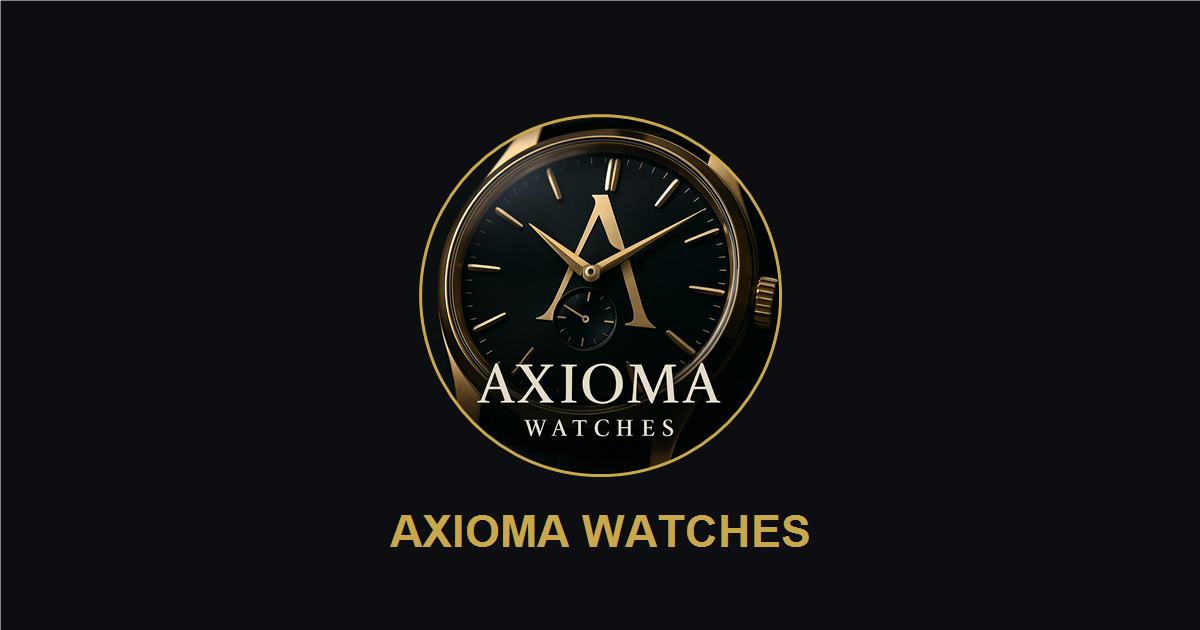
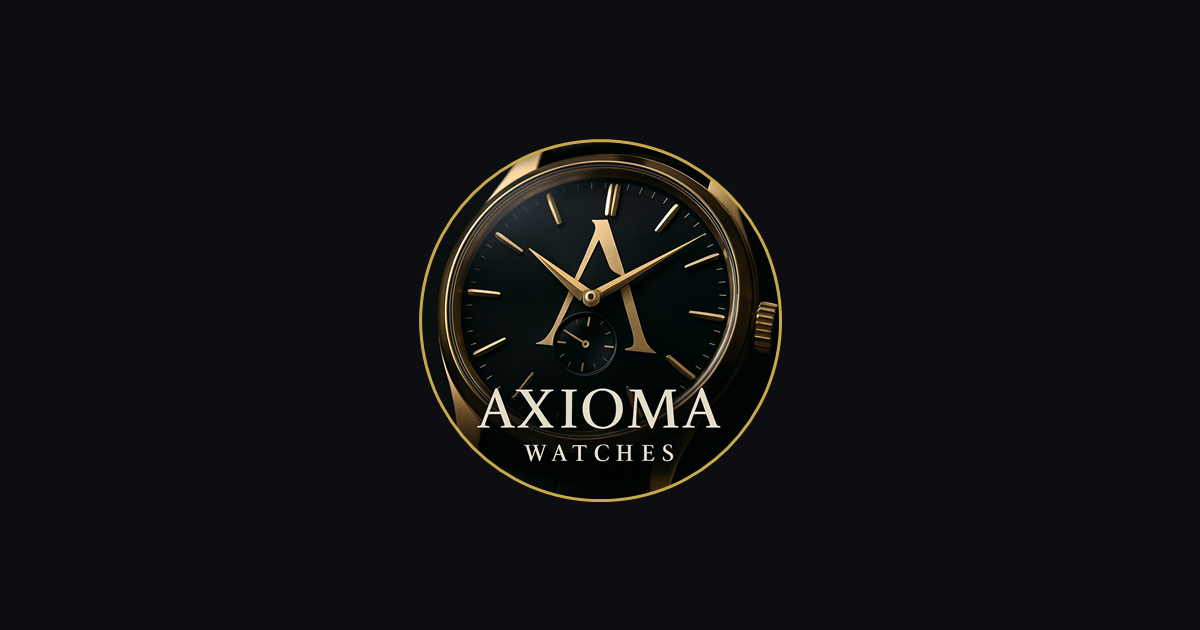
[ADD] SEO, performance e UX no carrossel de recomendações
- Corrige og:image para URL absoluta e adiciona hreflang pt-BR/en (domínios .com.br/.com)
- Substitui imagem de capa (og-cover.png) removendo texto redundante ao logo
- Fotos dos relógios passam a usar lazy loading em vez de carregar todas de uma vez
- Cache de 60s na API da planilha, mantendo edições visíveis em até 1 minuto
- Remove lista de relógios reserva desatualizada; seção mostra mensagem de indisponibilidade caso a planilha falhe
- Troca de filtro por marca com transição suave (fade) em vez de remontar o carrossel, corrigindo o piscar
- Altura da descrição fixa nos cards, mantendo o botão "Ver na loja" na mesma posição entre filtros

Changed region(s): [[0.3083, 0.181, 0.6783, 0.8746]]

diff --git a/src/components/Recommendations.tsx b/src/components/Recommendations.tsx
@@ -106,15 +106,19 @@ function GalleryItem({ w }: { w: Watch }) {
       >
         {imageUrl ? (
           <Box
+            component="img"
             className="watch-img"
-            role="img"
-            aria-label={w.model}
+            src={imageUrl}
+            alt={w.model}
+            loading="lazy"
+            decoding="async"
             sx={{
               position: 'absolute',
               inset: 0,
-              backgroundImage: `url(${imageUrl})`,
-              backgroundSize: 'cover',
-              backgroundPosition: 'center',
+              width: '100%',
+              height: '100%',
+              objectFit: 'cover',
+              objectPosition: 'center',
               backgroundColor: '#f5f4f2',
               transition: 'transform 0.45s ease, filter 0.45s ease',
               transformOrigin: 'center',
@@ -237,8 +241,8 @@ function GalleryItem({ w }: { w: Watch }) {
         >
           {w.model}
         </Typography>
-        {/* Altura fixa (4 linhas) para o botão nunca mudar de posição entre filtros */}
-        <Box sx={{ flex: 1, height: '6rem', overflow: 'hidden' }}>
+        {/* Altura rígida (4 linhas, sem flex) para o botão nunca mudar de posição */}
+        <Box sx={{ height: '6rem', overflow: 'hidden' }}>
           {description && (
             <Typography
               variant="body2"
@@ -359,7 +363,25 @@ export default function Recommendations() {
   const { ref, visible } = useScrollReveal();
   const { t } = useLanguage();
   const { watches, loading } = useRecommendations();
+  // brandFilter destaca o chip na hora; appliedFilter troca a lista depois do
+  // fade-out, para a transição ser suave em vez de piscar.
   const [brandFilter, setBrandFilter] = useState<string | null>(null);
+  const [appliedFilter, setAppliedFilter] = useState<string | null>(null);
+  const [fading, setFading] = useState(false);
+  const fadeTimer = useRef<number | undefined>(undefined);
+
+  const changeFilter = (next: string | null) => {
+    if (next === brandFilter) return;
+    setBrandFilter(next);
+    setFading(true);
+    window.clearTimeout(fadeTimer.current);
+    fadeTimer.current = window.setTimeout(() => {
+      setAppliedFilter(next);
+      setFading(false);
+    }, 120);
+  };
+
+  useEffect(() => () => window.clearTimeout(fadeTimer.current), []);
 
   const brands = useMemo(() => {
     const seen = new Set<string>();
@@ -371,8 +393,8 @@ export default function Recommendations() {
   }, [watches]);
 
   const filtered = useMemo(
-    () => (brandFilter === null ? watches : watches.filter((w) => partnerOf(w) === brandFilter)),
-    [watches, brandFilter]
+    () => (appliedFilter === null ? watches : watches.filter((w) => partnerOf(w) === appliedFilter)),
+    [watches, appliedFilter]
   );
 
   const chipRowRef = useRef<HTMLDivElement>(null);
@@ -473,7 +495,7 @@ export default function Recommendations() {
               label={t.recommendations.filterAll}
               variant="outlined"
               clickable
-              onClick={() => setBrandFilter(null)}
+              onClick={() => changeFilter(null)}
               sx={filterChipSx(brandFilter === null)}
             />
             {brands.map((brand) => (
@@ -482,7 +504,7 @@ export default function Recommendations() {
                 label={brand}
                 variant="outlined"
                 clickable
-                onClick={() => setBrandFilter((prev) => (prev === brand ? null : brand))}
+                onClick={() => changeFilter(brandFilter === brand ? null : brand)}
                 sx={filterChipSx(brandFilter === brand)}
               />
             ))}
@@ -519,7 +541,25 @@ export default function Recommendations() {
           </Box>
         )}
 
-        <Carousel key={brandFilter ?? 'all'} sx={revealSx(visible, 200)}>
+        {!loading && watches.length === 0 && (
+          <Typography
+            sx={{
+              textAlign: 'center',
+              color: 'text.secondary',
+              fontSize: '0.95rem',
+              lineHeight: 1.8,
+              py: 8,
+              px: 4,
+            }}
+          >
+            {t.recommendations.loadError}
+          </Typography>
+        )}
+
+        {(loading || watches.length > 0) && (
+        <Box sx={revealSx(visible, 200)}>
+        <Box sx={{ opacity: fading ? 0 : 1, transition: 'opacity 120ms ease' }}>
+        <Carousel resetToken={appliedFilter}>
           {loading
             ? Array.from({ length: 3 }).map((_, i) => (
                 <Box
@@ -553,6 +593,9 @@ export default function Recommendations() {
               ))
           }
         </Carousel>
+        </Box>
+        </Box>
+        )}
       </Box>
     </Box>
   );

diff --git a/src/hooks/useRecommendations.ts b/src/hooks/useRecommendations.ts
@@ -25,52 +25,14 @@ const GRADIENTS = [
   'linear-gradient(135deg, #1a0a0a 0%, #3d1010 50%, #5a1a1a 100%)',
 ];
 
-const FALLBACK: Watch[] = [
-  {
-    brand: 'Seiko',
-    model: 'Turtle SRP777',
-    description: 'Um ícone do mergulho com movimento automático 4R36, reserva de marcha de 41h e resistência a 200m.',
-    storeUrl: 'https://www.relojoariaimpala.com.br',
-    gradient: GRADIENTS[0],
-  },
-  {
-    brand: 'Citizen',
-    model: 'Promaster Diver NY0040',
-    description: 'Tecnologia Eco-Drive, resistência a 200m e acabamento superlativo. Custo-benefício difícil de superar.',
-    storeUrl: 'https://www.relojoariaimpala.com.br',
-    gradient: GRADIENTS[1],
-  },
-  {
-    brand: 'Spinnaker',
-    model: 'Hull SP-5068-03',
-    description: 'Design náutico britânico com movimento automático NH35. Uma das melhores opções na faixa de entrada premium.',
-    storeUrl: 'https://www.relojoariaimpala.com.br',
-    gradient: GRADIENTS[2],
-  },
-  {
-    brand: 'Orient',
-    model: 'Mako II FAA02001B',
-    description: 'Automático com hacking e hand-winding, luneta interna e 200m de resistência. Clássico acessível.',
-    storeUrl: 'https://www.relojoariaimpala.com.br',
-    gradient: GRADIENTS[3],
-  },
-  {
-    brand: 'Terranova',
-    model: 'Modelo Exclusivo',
-    description: 'Micro Brand nacional que despontou em 2024 com acabamentos de alto nível e identidade própria.',
-    storeUrl: 'https://terranovawatches.com',
-    gradient: GRADIENTS[4],
-  },
-];
-
 export function useRecommendations() {
   const { data, loading } = useSheetData('recomendacoes');
 
+  // Sem lista reserva: se a planilha falhar, watches fica vazio e a seção
+  // mostra uma mensagem de indisponibilidade (nunca conteúdo desatualizado).
   const watches = useMemo<Watch[]>(() => {
-    if (data.length === 0) return FALLBACK;
-
     const rows = data.slice(1);
-    const parsed = rows
+    return rows
       .filter((r) => r[0] && r[1])
       .map((r, i) => ({
         brand: r[0] ?? '',
@@ -82,8 +44,6 @@ export function useRecommendations() {
         coupon: r[5] || undefined,
         descriptionEn: r[6] || undefined,
       }));
-
-    return parsed.length > 0 ? parsed : FALLBACK;
   }, [data]);
 
   return { watches, loading };

diff --git a/index.html b/index.html
@@ -7,16 +7,28 @@
     <meta name="description" content="Axioma Watches — Canal de relojoaria quartz e mecânica automática por Claudio Vaz. Informação verdadeira sobre relógios." />
     <title>Axioma Watches</title>
 
+    <!-- pt-BR no .com.br, inglês no .com — mesmo site, idiomas alternativos.
+         Sem www: é a forma primária servida pelo Vercel (www.com redireciona p/ apex). -->
+    <link rel="alternate" hreflang="pt-BR" href="https://axiomawatches.com.br/" />
+    <link rel="alternate" hreflang="en" href="https://axiomawatches.com/" />
+    <link rel="alternate" hreflang="x-default" href="https://axiomawatches.com.br/" />
+    <script>
+      // Canônica dinâmica: cada domínio (pt/en) aponta para si mesmo
+      var canonical = document.createElement('link');
+      canonical.rel = 'canonical';
+      canonical.href = location.origin + '/';
+      document.head.appendChild(canonical);
+    </script>
     <meta property="og:type" content="website" />
     <meta property="og:site_name" content="Axioma Watches" />
     <meta property="og:title" content="Axioma Watches" />
     <meta property="og:description" content="Canal de relojoaria quartz e mecânica automática por Claudio Vaz. Informação verdadeira sobre relógios." />
     <meta property="og:locale" content="pt_BR" />
-    <meta property="og:image" content="/og-cover.png" />
+    <meta property="og:image" content="https://axiomawatches.com.br/og-cover.png" />
     <meta name="twitter:card" content="summary_large_image" />
     <meta name="twitter:title" content="Axioma Watches" />
     <meta name="twitter:description" content="Canal de relojoaria quartz e mecânica automática por Claudio Vaz. Informação verdadeira sobre relógios." />
-    <meta name="twitter:image" content="/og-cover.png" />
+    <meta name="twitter:image" content="https://axiomawatches.com.br/og-cover.png" />
 
     <link rel="preload" as="image" href="/hero-bg.jpg" fetchpriority="high" />
     <link rel="preconnect" href="https://fonts.googleapis.com" />

diff --git a/src/components/Carousel.tsx b/src/components/Carousel.tsx
@@ -28,9 +28,11 @@ const arrowSx = (enabled: boolean) => ({
 interface CarouselProps {
   children: ReactNode;
   sx?: SxProps<Theme>;
+  /** Quando este valor muda, a rolagem volta ao início (sem remontar os slides) */
+  resetToken?: unknown;
 }
 
-export default function Carousel({ children, sx }: CarouselProps) {
+export default function Carousel({ children, sx, resetToken }: CarouselProps) {
   const trackRef = useRef<HTMLDivElement>(null);
   const barRef = useRef<HTMLDivElement>(null);
   const draggingRef = useRef(false);
@@ -71,6 +73,11 @@ export default function Carousel({ children, sx }: CarouselProps) {
       ro.disconnect();
     };
   }, [updateScrollState, children]);
+
+  useEffect(() => {
+    trackRef.current?.scrollTo({ left: 0 });
+    updateScrollState();
+  }, [resetToken, updateScrollState]);
 
   const scroll = (dir: 'left' | 'right') => {
     const el = trackRef.current;

diff --git a/src/i18n/pt_BR.ts b/src/i18n/pt_BR.ts
@@ -42,6 +42,7 @@ const pt_BR: Translations = {
     heading: 'Relógios recomendados',
     subtitle: 'Uma curadoria pessoal de relógios que valem cada centavo — testados, aprovados e indicados com transparência junto aos nossos parceiros.',
     filterAll: 'Todas',
+    loadError: 'Não foi possível carregar as recomendações agora. Tente novamente em instantes.',
     badge: 'RECOMENDADO',
     visitStore: 'VER NA LOJA',
     couponLabel: 'CUPOM',

diff --git a/src/i18n/en.ts b/src/i18n/en.ts
@@ -42,6 +42,7 @@ const en: Translations = {
     heading: 'Watches recommended',
     subtitle: 'A personal curation of watches that are worth every penny — tested, approved, and recommended with transparency alongside our partners.',
     filterAll: 'All',
+    loadError: 'We could not load the recommendations right now. Please try again in a moment.',
     badge: 'RECOMMENDED',
     visitStore: 'VIEW IN STORE',
     couponLabel: 'COUPON',

diff --git a/src/i18n/translations.ts b/src/i18n/translations.ts
@@ -36,6 +36,7 @@ export interface Translations {
     heading: string;
     subtitle: string;
     filterAll: string;
+    loadError: string;
     badge: string;
     visitStore: string;
     couponLabel: string;
